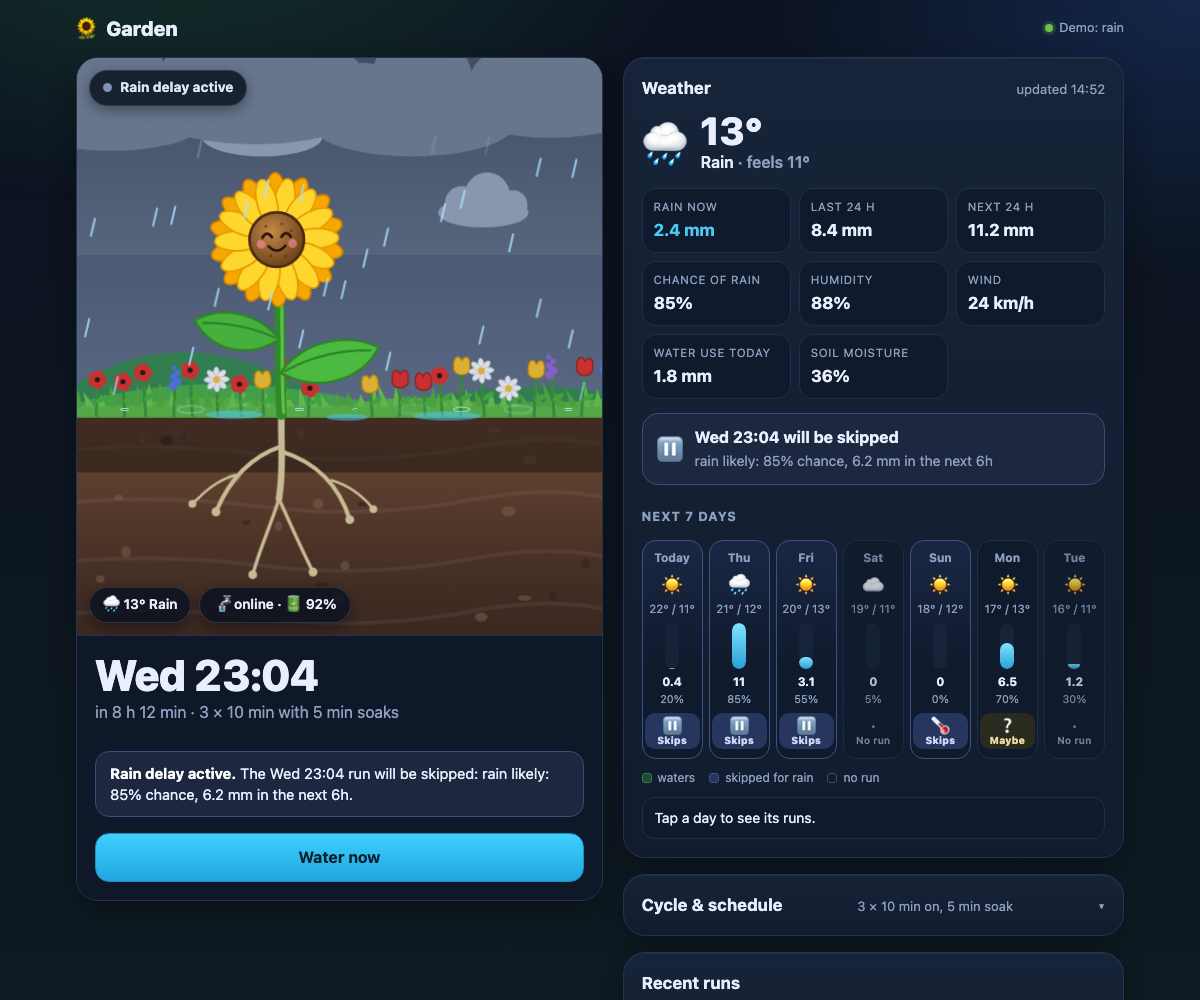
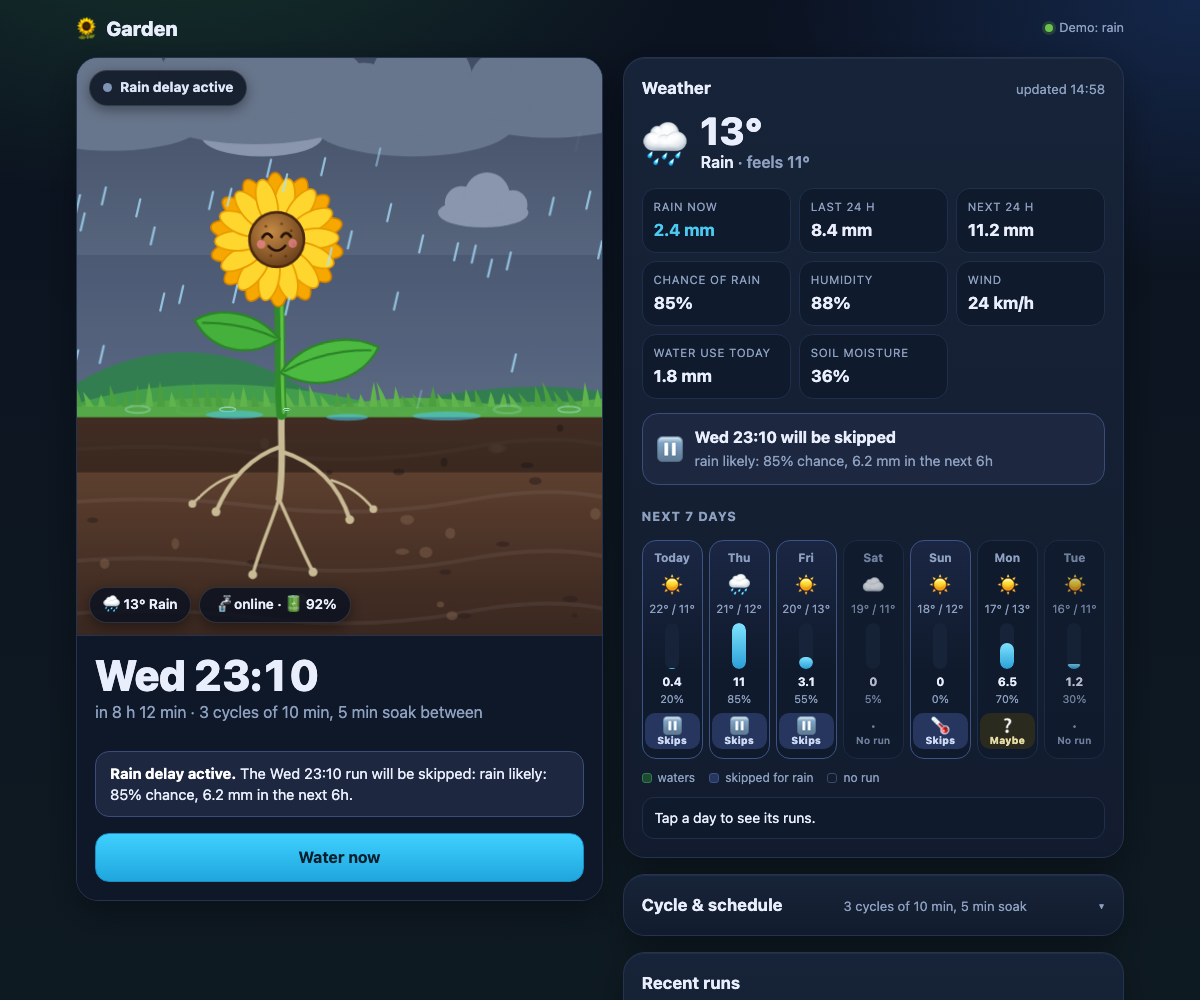
fix(ui): 🐛 clearer weather reasons, no bed
The weather note now says what the numbers are: how hot the day is against
normal, the soil, the resulting percent, and the cycles against your
normal count. The hero line says cycles of N minutes instead of N x N. The
small background flowers are gone. Screenshots retaken.

diff --git a/worker/public/app.js b/worker/public/app.js
@@ -44,30 +44,6 @@ function buildScene() {
     const lean = (rand() - 0.5) * 8;
     el("path", { d: `M${x} 266 Q${x + lean / 2} ${266 - h * 0.6} ${x + lean} ${266 - h} Q${x + 4 + lean / 2} ${266 - h * 0.5} ${x + 6} 266Z`, fill: rand() > 0.5 ? "#6fcf4f" : "#57b640" }, blades);
   }
-  // a bed of little flowers along the grass: tulips, daisies, bluebells and poppies
-  const bed = $("bed");
-  for (let x = -6; x < 410; x += 13 + rand() * 9) {
-    if (Math.abs(x - 200) < 16) continue;
-    const kind = Math.floor(rand() * 5);
-    const h = 16 + rand() * 20;
-    const g = el("g", { class: "bloom", style: `transform-origin:${x}px 271px;animation-delay:${-rand() * 4}s` }, bed);
-    el("path", { d: `M${x} 273 L${x} ${270 - h}`, stroke: "#3f9b3a", "stroke-width": 2.2, "stroke-linecap": "round" }, g);
-    el("ellipse", { cx: x + 4, cy: 266 - h * 0.25, rx: 5, ry: 2, fill: "#4cb940", transform: `rotate(-30 ${x + 4} ${266 - h * 0.25})` }, g);
-    const head = el("g", { transform: `translate(${x} ${270 - h})` }, g);
-    if (kind < 2) {
-      const [fill, stroke] = kind === 0 ? ["#e8362f", "#a31d1d"] : ["#ffc933", "#d99a00"];
-      el("path", { d: "M-6 -2 C-7 -12 -3 -14 0 -9 C3 -14 7 -12 6 -2 C4 3 -4 3 -6 -2Z", fill, stroke, "stroke-width": 1 }, head);
-    } else if (kind === 2) {
-      for (let k = 0; k < 8; k++) el("ellipse", { cx: 0, cy: -5, rx: 2.2, ry: 4.6, fill: "#fff", stroke: "#cfd8e8", "stroke-width": 0.6, transform: `rotate(${k * 45})` }, head);
-      el("circle", { r: 2.6, fill: "#ffc933" }, head);
-    } else if (kind === 3) {
-      const col = rand() > 0.5 ? "#5b7cf0" : "#9a6be0";
-      for (let k = 0; k < 5; k++) el("circle", { cx: (k % 2 ? 1.6 : -1.6), cy: -k * 3.4, r: 3.4 - k * 0.4, fill: col }, head);
-    } else {
-      for (let k = 0; k < 5; k++) el("circle", { cx: Math.cos(k * 1.256) * 3.6, cy: Math.sin(k * 1.256) * 3.6, r: 3.6, fill: "#e8362f" }, head);
-      el("circle", { r: 2, fill: "#2b1b12" }, head);
-    }
-  }
   // pebbles and sediment lines in the soil
   const soil = $("soilDetail");
   for (const y of [300, 340, 385, 425]) {
@@ -116,6 +92,7 @@ function relative(ms) {
 }
 const esc = (t) => String(t).replace(/[&<>"']/g, (c) => `&#${c.charCodeAt(0)};`);
 const minutesLabel = (m) => `${Math.round(m * 10) / 10} min`;
+const cyclesLabel = (n) => `${n} cycle${n === 1 ? "" : "s"}`;
 
 /* ───────────────────────── demo data ───────────────────────── */
 
@@ -136,8 +113,8 @@ function demoData(name) {
   const dry = "5% chance, 0.0 mm in the next 6h";
   const wet = "rain likely: 78% chance, 4.0 mm in the next 6h";
   const demoRuns = [
-    () => rain ? run(0, "skip", wet) : [{ at: at(0), state: "will-run", reason: dry, cycles: 4, percent: 132, scaling: "Warm and dry: 4 cycles instead of 3 (ET 5.9 mm, soil dry 0.18)." }, { at: at(0) + 11 * 3600000, state: "will-run", reason: dry, cycles: 3, percent: 100, scaling: "Typical (ET 4.5 mm), soil dry (0.20): 100% of normal, 3 of 3 cycles." }],
-    () => rain ? run(1, "skip", wet) : [{ at: at(1), state: "will-run", reason: dry, cycles: 2, percent: 62, scaling: "Cool day: 2 cycles instead of 3 (ET 2.8 mm, soil damp 0.27)." }, { at: at(1) + 11 * 3600000, state: "will-run", reason: dry, cycles: 1, percent: 33, scaling: "Cool day: 1 cycle instead of 3 (ET 2.8 mm, soil damp 0.27)." }],
+    () => rain ? run(0, "skip", wet) : [{ at: at(0), state: "will-run", reason: dry, cycles: 4, percent: 132, scaling: "Hot, dry day (ET 5.9 mm, 131% of normal), soil dry (0.18). That is 131% of normal: 4 cycles instead of 3." }, { at: at(0) + 11 * 3600000, state: "will-run", reason: dry, cycles: 3, percent: 100, scaling: "Typical day (ET 4.5 mm, 100% of normal), soil dry (0.20). That is 100% of normal: 3 cycles, same as normal." }],
+    () => rain ? run(1, "skip", wet) : [{ at: at(1), state: "will-run", reason: dry, cycles: 2, percent: 62, scaling: "Cool or humid day (ET 2.8 mm, 62% of normal), soil damp (0.27). That is 62% of normal: 2 cycles instead of 3." }, { at: at(1) + 11 * 3600000, state: "will-run", reason: dry, cycles: 1, percent: 33, scaling: "Cool or humid day (ET 2.8 mm, 62% of normal), soil damp (0.27). That is 33% of normal: 1 cycle instead of 3." }],
     () => run(2, "skip", wet),
     () => [],
     () => [{ at: at(4), state: "skip-weather", reason: "Soil is wet (0.38 m³/m³), so no watering is needed. Weather: low (ET 1.9 mm)." }],
@@ -155,7 +132,7 @@ function demoData(name) {
       etTodayMm: rain ? 1.8 : 5.9, soilMoisture: rain ? 0.36 : 0.18,
       past24hMm: rain ? 8.4 : 0.6, next24hMm: rain ? 11.2 : 0.4, rainChanceNext24hPct: rain ? 85 : 20,
       daily: days.map((date, i) => ({ runs: demoRuns[i](date), date, condition: i === 1 && rain ? rainy : i === 3 ? grey : sunny, tMaxC: 22 - i, tMinC: 11 + (i % 3), rainMm: [0.4, rain ? 11.2 : 0.2, 3.1, 0, 0, 6.5, 1.2][i], chancePct: [20, rain ? 85 : 15, 55, 5, 0, 70, 30][i] })),
-      nextRun: { at: now + 8.2 * 3600000, planned: rain ? undefined : { at: at(0), state: "will-run", reason: dry, cycles: 4, percent: 132, scaling: "Warm and dry: 4 cycles instead of 3 (ET 5.9 mm, soil dry 0.18)." }, verdict: rain ? { skip: true, reason: "rain likely: 85% chance, 6.2 mm in the next 6h" } : { skip: false, reason: "20% chance, 0.2 mm in the next 6h" } },
+      nextRun: { at: now + 8.2 * 3600000, planned: rain ? undefined : { at: at(0), state: "will-run", reason: dry, cycles: 4, percent: 132, scaling: "Hot, dry day (ET 5.9 mm, 131% of normal), soil dry (0.18). That is 131% of normal: 4 cycles instead of 3." }, verdict: rain ? { skip: true, reason: "rain likely: 85% chance, 6.2 mm in the next 6h" } : { skip: false, reason: "20% chance, 0.2 mm in the next 6h" } },
     },
   };
 }
@@ -213,7 +190,7 @@ function renderTicking() {
   } else {
     big = when(status.nextRunAt);
     const scaled = planned?.state === "will-run" && planned.cycles;
-    sub = `in ${relative(status.nextRunAt - now)} · ${scaled ? planned.cycles : config.cycles} × ${minutesLabel(config.onMinutes)} with ${minutesLabel(config.soakMinutes)} soaks${scaled && planned.percent !== 100 ? ` (${planned.percent}% of normal)` : ""}`;
+    sub = `in ${relative(status.nextRunAt - now)} · ${cyclesLabel(scaled ? planned.cycles : config.cycles)} of ${minutesLabel(config.onMinutes)}, ${minutesLabel(config.soakMinutes)} soak between${scaled && planned.percent !== 100 ? ` (${planned.percent}% of normal)` : ""}`;
     if (delayed) { pillText = "Rain delay active"; pillClass = "pill-delay"; }
     else if (planned?.state === "skip-weather") { pillText = "Skipping: weather"; pillClass = "pill-delay"; }
     else if (weather?.current.isRaining) { pillText = "Raining"; pillClass = "pill-raining"; }
@@ -393,7 +370,7 @@ function renderHistory() {
 
 function renderSettingsSummary() {
   const c = status.config;
-  $("settings-summary").textContent = `${c.cycles} × ${minutesLabel(c.onMinutes)} on, ${minutesLabel(c.soakMinutes)} soak`;
+  $("settings-summary").textContent = `${cyclesLabel(c.cycles)} of ${minutesLabel(c.onMinutes)}, ${minutesLabel(c.soakMinutes)} soak`;
 }
 
 function renderSchedules() {

diff --git a/worker/src/smart.ts b/worker/src/smart.ts
@@ -69,13 +69,15 @@ export function smartPlan(cfg: SmartConfig, baseCycles: number, input: SmartInpu
   const dryness = input.soilMoisture === undefined ? 1 : clamp((cfg.soilWetAbove - input.soilMoisture) / (cfg.soilWetAbove - cfg.soilDryBelow), 0, 1);
   const percent = Math.round(Math.min(cfg.maxPercent, 100 * etFactor * dryness));
 
-  const level = etFactor >= 1.2 ? "hot and dry" : etFactor < 0.8 ? "cool or humid" : "typical";
-  const et = `${level} (ET ${round1(input.etMm)} mm)`;
+  const level = etFactor >= 1.2 ? "Hot, dry day" : etFactor < 0.8 ? "Cool or humid day" : "Typical day";
+  const day = `${level} (ET ${round1(input.etMm)} mm, ${Math.round(100 * etFactor)}% of normal)`;
   const soil = input.soilMoisture === undefined ? "" : dryness === 0 ? `, soil wet (${input.soilMoisture.toFixed(2)})` : dryness < 1 ? `, soil damp (${input.soilMoisture.toFixed(2)})` : `, soil dry (${input.soilMoisture.toFixed(2)})`;
 
   if (percent < cfg.minPercent) {
-    return skip(dryness === 0 ? `Soil is wet (${input.soilMoisture!.toFixed(2)} m³/m³), so no watering is needed. Weather: ${et}.` : `Low demand: ${et}${soil} works out to ${percent}% of normal, below your ${cfg.minPercent}% minimum.`);
+    return skip(dryness === 0 ? `Soil is wet (${input.soilMoisture!.toFixed(2)} m³/m³), so no watering is needed. ${day}.` : `Low demand: ${day}${soil}. That is ${percent}% of normal, below your ${cfg.minPercent}% minimum.`);
   }
   const cycles = clamp(Math.round((baseCycles * percent) / 100), 1, 20);
-  return { run: true, cycles, percent, reasons: [`${et[0].toUpperCase()}${et.slice(1)}${soil}: ${percent}% of normal, ${cycles} of ${baseCycles} cycles.`] };
+  const capped = percent >= cfg.maxPercent ? " (your maximum)" : "";
+  const count = cycles === baseCycles ? `${cycles} cycle${cycles === 1 ? "" : "s"}, same as normal` : `${cycles} cycle${cycles === 1 ? "" : "s"} instead of ${baseCycles}`;
+  return { run: true, cycles, percent, reasons: [`${day}${soil}. That is ${percent}% of normal${capped}: ${count}.`] };
 }

diff --git a/worker/test/smart.test.ts b/worker/test/smart.test.ts
@@ -14,7 +14,7 @@ describe("smartPlan scaling", () => {
   it("adds a cycle on a hot dry day, and says why", () => {
     const p = smartPlan(cfg(), 3, { etMm: 6.2, soilMoisture: 0.14 }); // this week's hot dry Fri
     expect(p).toMatchObject({ run: true, cycles: 4, percent: 138 });
-    expect(p.reasons[0]).toMatch(/hot and dry.*ET 6.2 mm.*soil dry.*138%.*4 of 3/i);
+    expect(p.reasons[0]).toMatch(/hot, dry day.*ET 6.2 mm.*soil dry.*138%.*4 cycles instead of 3/i);
   });
 
   it("never goes above the cap", () => {

diff --git a/worker/test/outlook.test.ts b/worker/test/outlook.test.ts
@@ -78,7 +78,7 @@ describe("plannedRuns with weather scaling", () => {
     const hot = mk({ etByDate: { "2026-10-22": 6.2 } });
     const [r] = plannedRuns(config, "2026-10-22", hot, [], now, tz);
     expect(r).toMatchObject({ state: "will-run", cycles: 4, percent: 138 });
-    expect(r.reason).toMatch(/hot and dry/i);
+    expect(r.reason).toMatch(/hot, dry day/i);
   });
 
   it("flags a day skipped for the weather: wet soil, wind or frost", () => {
